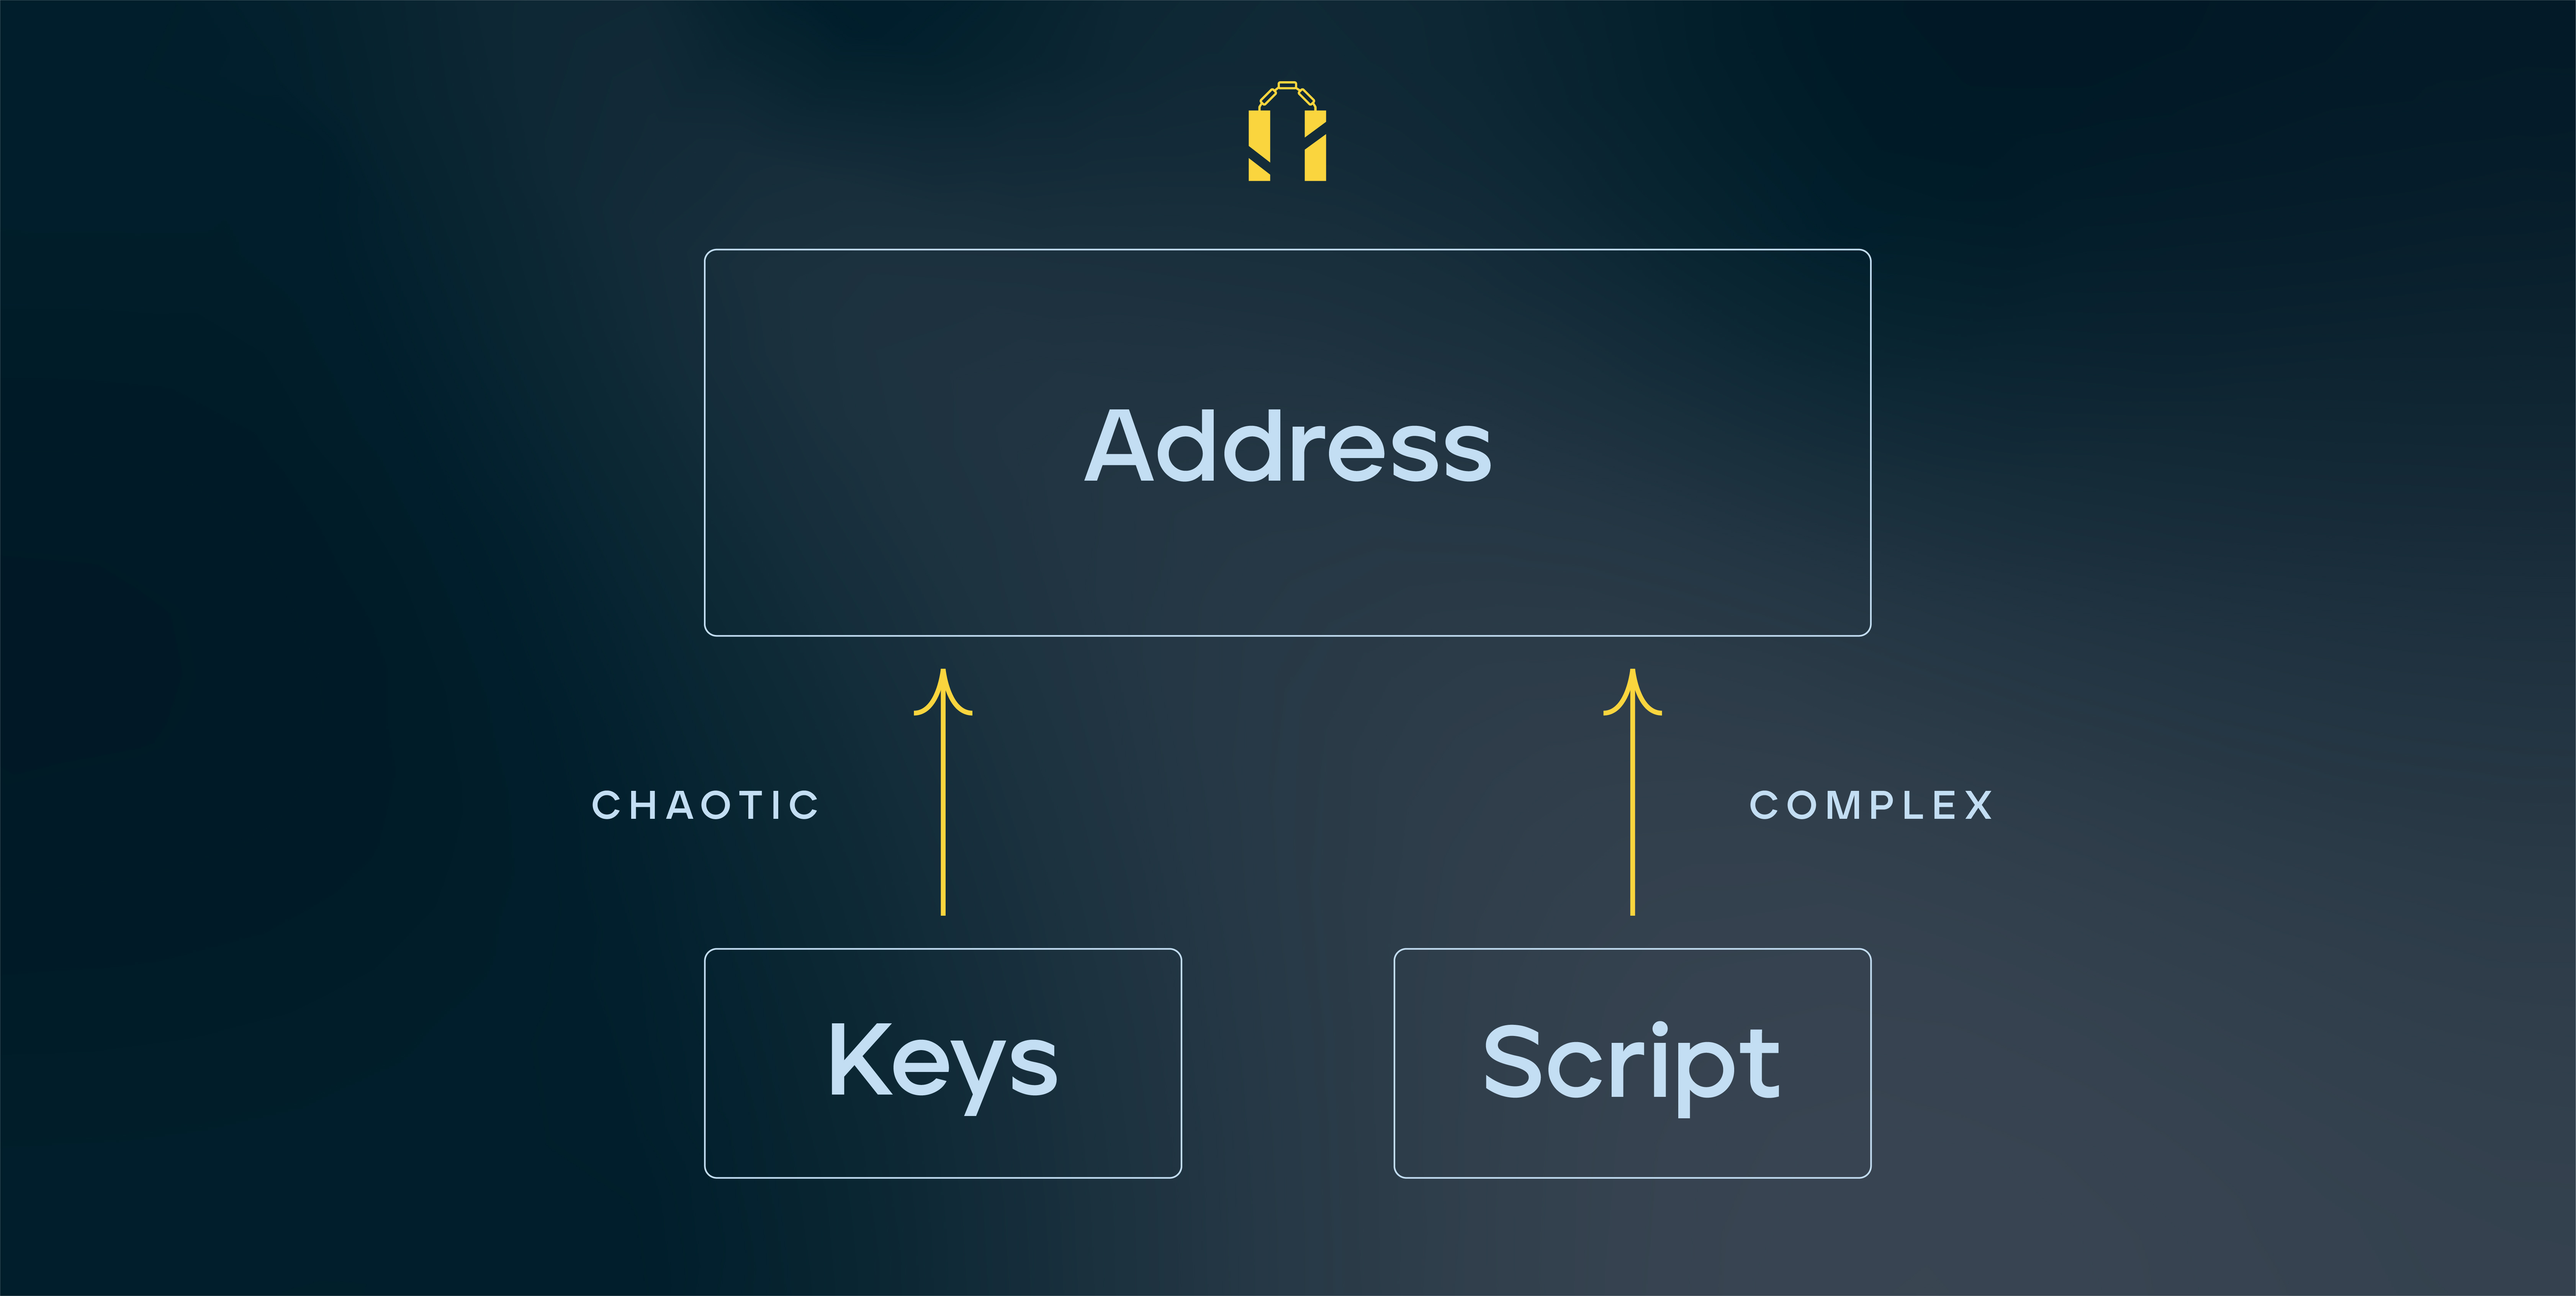
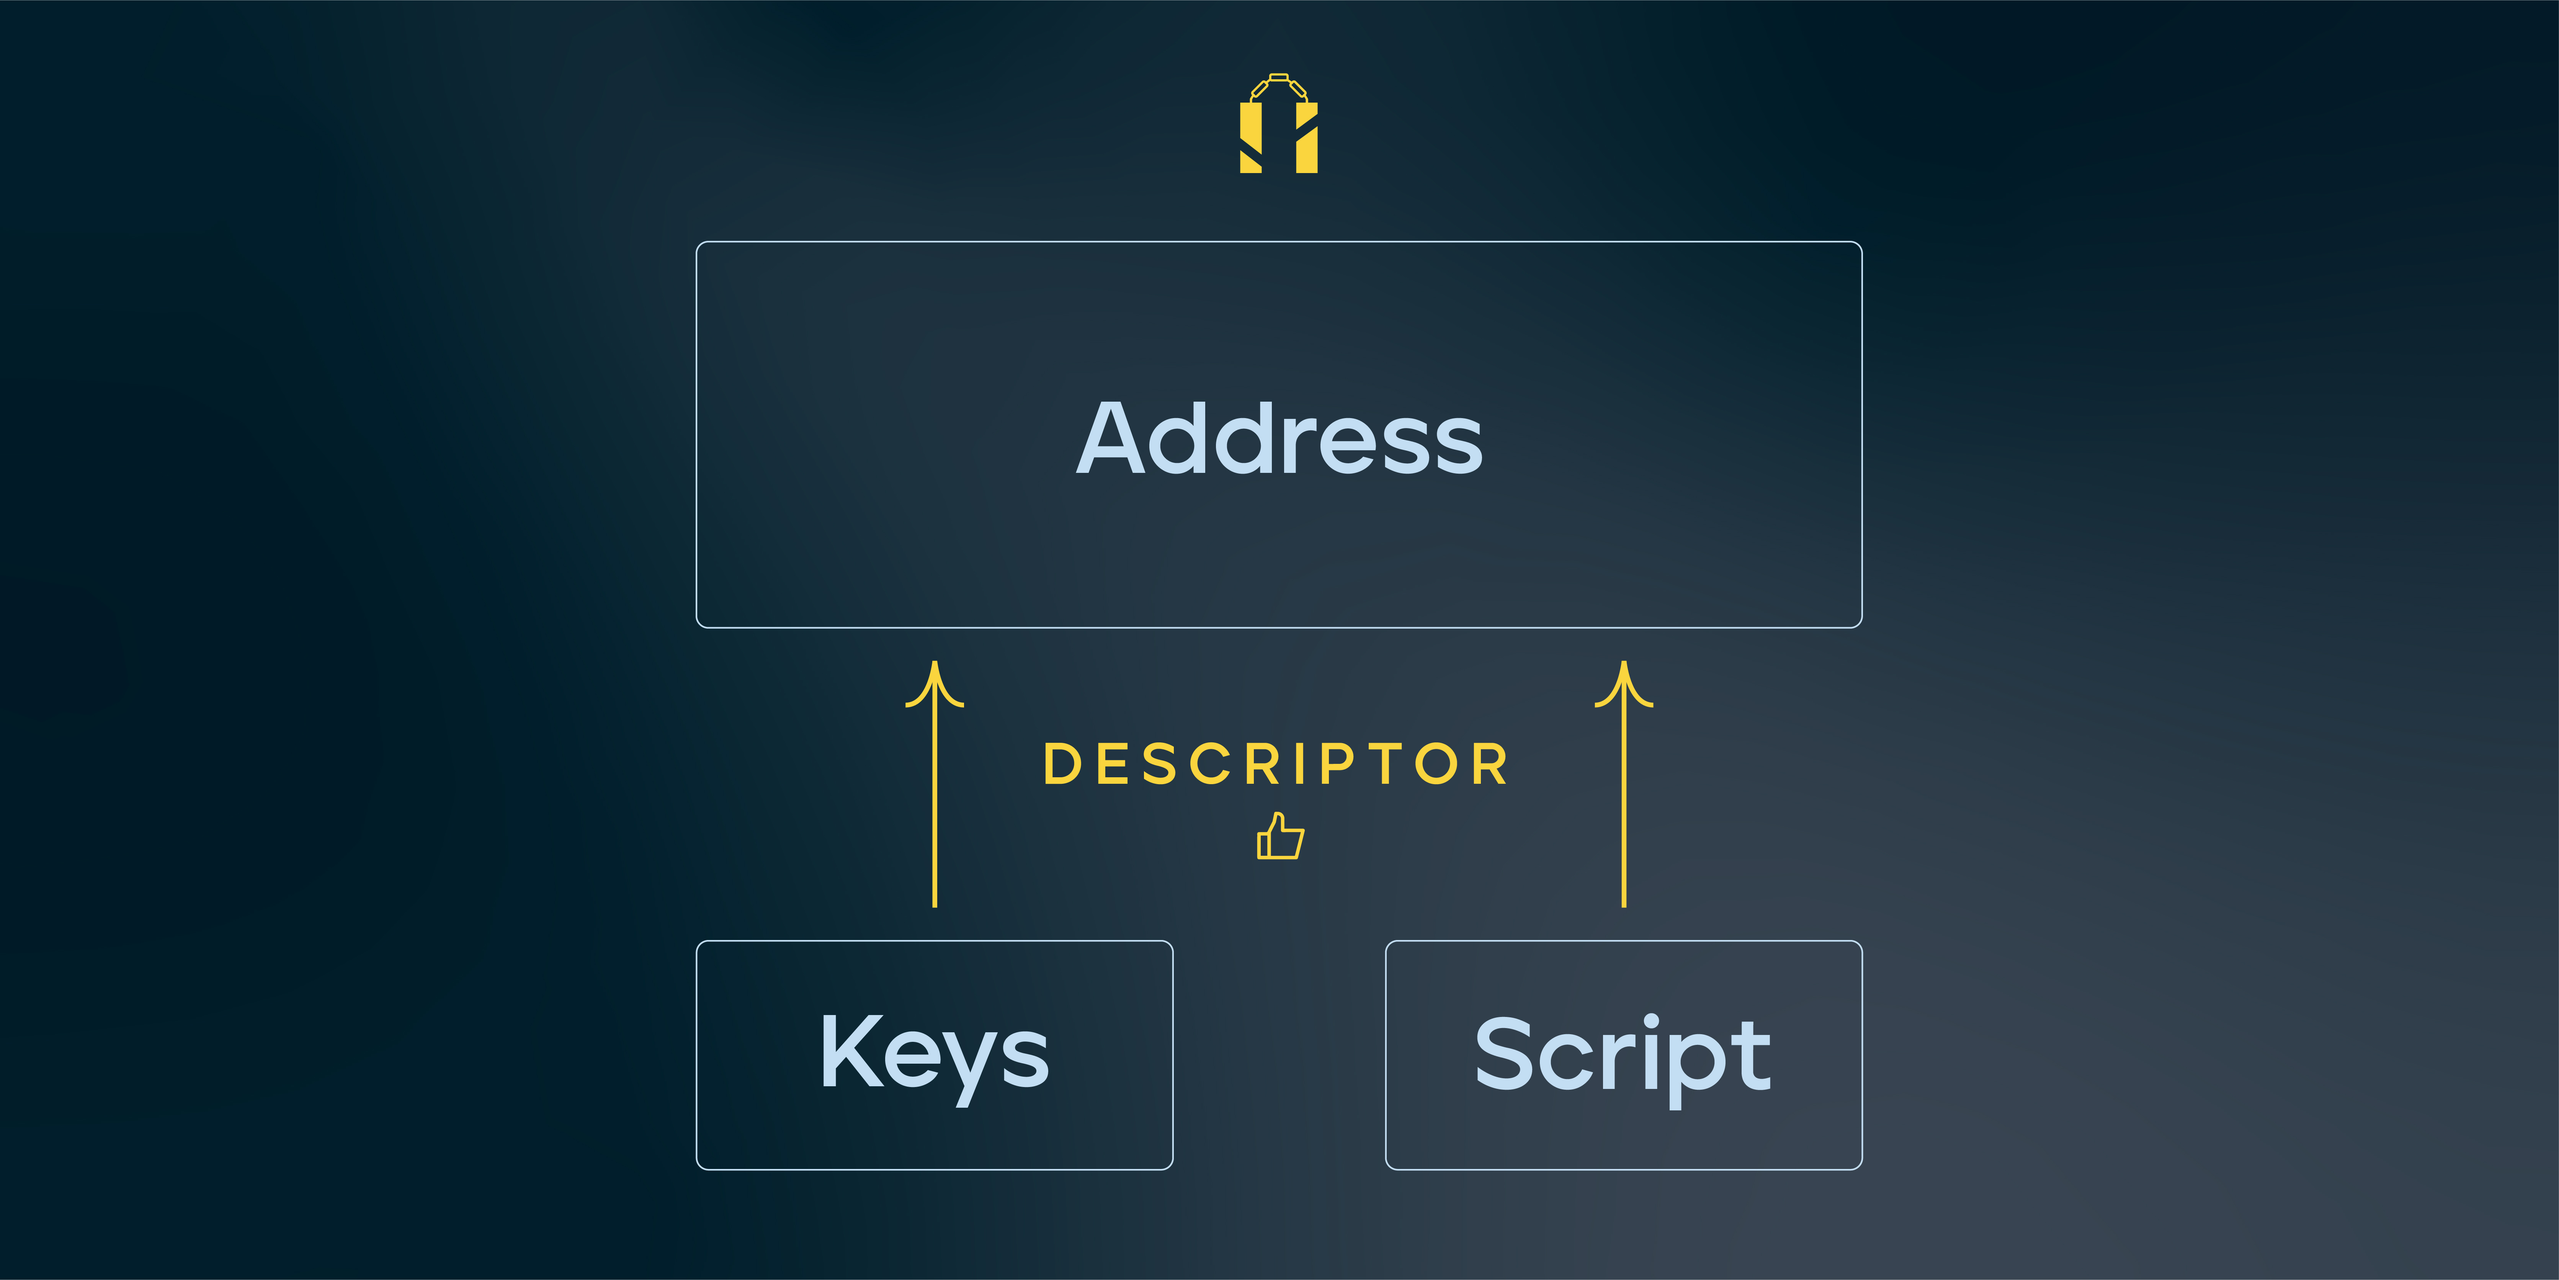
update text content

diff --git a/keys-are-not-enough.md b/keys-are-not-enough.md
@@ -1,8 +1,8 @@
 <h1>"Not Your Keys, Not Your Coins"... Is Not Enough</h1>
 
-This slogan (perhaps coined by Bitcoin evangelist Andreas Antonopoulos) has been popular among the Bitcoin community for a long time. "Keys" here refer to the private keys, implying that those who are in possession of the private keys, own the bitcoins controlled by those keys.
+This slogan (perhaps coined by Bitcoin evangelist Andreas Antonopoulos) has been popular among the Bitcoin community for a long time. "Keys" here refer to the private keys, implying that those who are in possession of the private keys own the bitcoins controlled by those keys.
 
-While this slogan was true in the early days of Bitcoin, it is becoming increasingly irrelevant. The reason is the growing sophistication of smart contracts, including, but not limited to, multisig.
+While this slogan was true in the early days of Bitcoin, it is becoming increasingly irrelevant. The reason is the growing sophistication of key generation and smart contracts, including, but not limited to, multisig.
 
 Since Nunchuk's mission is the proliferation of multisig, it is crucial that the first step is to clear up this misconception. The rest of this article explains why the above slogan no longer suffices.
 
@@ -12,25 +12,25 @@ Bitcoin addresses are constructed using 2 components: a data component, and a sc
 
 ![Early days of Bitcoin: P2PK and P2PKH](keys_are_not_enough_01.jpg "Early days of Bitcoin: P2PK and P2PKH")
 
-In the early days of Bitcoin, both the data component and the script component were incredibly simple. The data is usually one single public key in uncompressed form. The script component is similarly straightforward. It either involves a single operation, OP_CHECKSIG (P2PK), or a slightly longer list of operations (P2PKH), but still highly predictable. In those days, the addresses act ultimately as aliases for the public keys.
+In the early days of Bitcoin, both the data component and the script component were incredibly simple. The data was usually one single public key in uncompressed form. The script component was similarly straightforward. It either involved a single operation, OP_CHECKSIG (P2PK), or a slightly longer list of operations (P2PKH), but still highly predictable. In those days, the addresses acted ultimately as aliases for the public keys.
 
-In this context, the aforementioned slogan makes sense. Whoever posseses the private keys, can deduce the public keys. And from the public keys, the addresses. So possession of the private keys means that:
-* You know which addresses your bitcoins are stored in, and 
-* How to unlock the bitcoins, once you know the addresses.
+In this context, the aforementioned slogan makes sense. Whoever posseses the private keys can deduce the public keys. And from the public keys, the addresses. So possession of the private keys means that:
+* We know which addresses our bitcoins are stored in, and 
+* How to unlock the bitcoins, once we know the addresses.
 
 <h2>BIP16/BIP32</h2>
 
 ![BIP16 (P2SH) and BIP32 (HD wallets)](keys_are_not_enough_02.jpg "BIP16 (P2SH) and BIP32 (HD wallets)")
 
-Things started to change with the introduction of more advanced scripting capabilities, beginning with [BIP16 (P2SH)](https://github.com/bitcoin/bips/blob/master/bip-0016.mediawiki). With P2SH, the script component can be almost anything. A good example is [Peter Todd's bounties](https://bitcointalk.org/index.php?topic=293382.0) for finding cryptographic hash collisions. But a more typical use case for P2SH invloves multisig wallets, where funds are controlled by more than one public key.
+Things started to change with the introduction of more advanced scripting capabilities, beginning with [BIP16 (P2SH)](https://github.com/bitcoin/bips/blob/master/bip-0016.mediawiki). With P2SH, the script component can be almost anything. A good example is [Peter Todd's bounties](https://bitcointalk.org/index.php?topic=293382.0) for finding cryptographic hash collisions. But a more typical use case for P2SH involves multisig wallets, where funds are controlled by more than one public key.
 
-P2SH-enabled multisig means that addresses are no longer predictable, because the order of the public keys included matters. For example, a 2-of-3 P2SH multisig address could be built 6 different ways, depending on how you order the 3 public keys. If you don't back up the redeemScript, which contains this order, you might not even know which addresses belong to you! All is not lost, since you can "try out" all permutations. But this brute-force approach is costly and non-scalable, as we shall see later on.
+P2SH-enabled multisig means that addresses are no longer predictable, because the order of the public keys included matters. For example, a 2-of-3 P2SH multisig address could be built 6 different ways, depending on how we order the 3 public keys. If we don't back up the redeemScript, which contains this order, we might not even know which addresses belong to us! All is not lost, since we can "try out" all permutations. But this brute-force approach is costly and non-scalable, as we shall see later on.
 
-Another development occured on the key component side of the address. Some time after P2SH was created, Hierarchical Deterministic (HD) wallets arrived, later standardized in [BIP32](https://github.com/bitcoin/bips/blob/master/bip-0032.mediawiki). Prior to HD wallets, a wallet is simply a collection of random private keys. HD wallets create a key hierarchy, so that the private keys belong to the same family, all generated from the same root, called the master key.
+Another development occured on the key component side of the address. Some time after P2SH was created, Hierarchical Deterministic (HD) wallets arrived, later standardized in [BIP32](https://github.com/bitcoin/bips/blob/master/bip-0032.mediawiki). Prior to HD wallets, a wallet is simply a collection of random private keys. HD wallets create a key hierarchy so that the private keys belong to the same family, all generated from the same root called the master key.
 
-HD wallets also make addresses less predictable. For each address in a HD wallet, you need to know from which lineage that particular public key descended from the master key. This is called the BIP32 derivation path. Without knowing the derivation path, you would also not be able to tell which addresses on the blockchain belongs to you.
+HD wallets also made addresses less predictable. For each address in a HD wallet, we need to know from which lineage that particular public key descended from the master key. This is called the BIP32 derivation path. Without knowing the derivation path, we would also not be able to tell which addresses on the blockchain belong to us.
 
-To sum up: the introduction of BIP16 and BIP32 meant that possession of the private keys no longer suffices. You also need the redeemScript (for BIP16) and the derivation path (for BIP32).
+To sum up: the introduction of BIP16 and BIP32 meant that possession of the private keys no longer suffices. We also need the redeemScript (for BIP16) and the derivation path (for BIP32).
 
 <h2>SegWit and Taproot</h2>
 
@@ -40,7 +40,7 @@ Things became even more complicated with the activation of [Segregated Witness](
 
 SegWit introduced a new and improved address format, called Bech32.
 
-The problem is that now there are even more ways addresses can be generated from a single master key. For each address type (there are now 3: legacy, native segwit, and a hybrid called nested segwit), you face the same problems of BIP16 and BIP32. So you have *permutations upon permutations* of address possibilities!
+The problem is that now there are even more ways addresses can be generated from a single master key. For each address type (there are now 3: legacy, native segwit, and a hybrid called nested segwit), we face the same problems of BIP16 and BIP32. So we end up with *permutations upon permutations* of address possibilities!
 
 Levels of permutations:
 1. Address types
@@ -48,21 +48,21 @@ Levels of permutations:
 3. Derivation paths
 4. Order of keys, if multisig
 
-This is where we are today. Both the key component and the script component of the address have gotten highly complex that possession of private keys makes up only a small part of ownership.
+This is where we are today. Both the key component and the script component of the address have gotten highly complex that possession of the private keys makes up only a small part of ownership.
 
-During this period, wallet vendors coped with this complexity through their own ways, often ad-hoc and non-standard, which led to unfortunate consequences. First, wallets became less compatible with one another. As an example, to recover a wallet created with one vendor in another requires looking up magic "recovery paths". Another negative side effect is the invention of poor concepts such as YPUB/ZPUB that further complicate the process and confuse the user. We will discuss YPUB/ZPUB and why they should be avoided separately in another article.
+During this period, wallet vendors coped with this rising complexity through their own ad-hoc, propietary ways, which led to unfortunate consequences. First, wallets became less compatible with one another. As an example, to recover a wallet created with one vendor in another requires looking up magic "recovery paths". Another negative side effect is the invention of poor concepts such as YPUB/ZPUB that further complicate the process and confuse the user. We will discuss YPUB/ZPUB and why they should be avoided separately in another article.
 
 But it doesn't stop here. Soon Bitcoin will have even more advanced scripting capabilities, such as [Taproot](https://github.com/bitcoin/bips/blob/master/bip-0341.mediawiki). When that happens, the number of address permutations increases even further.
 
-![Soon: Taproot and more](keys_are_not_enough_04.jpg "Soon: Taproot and more")
-
 <h2>Solution: Descriptor Language</h2>
+
+![Output Descriptors](keys_are_not_enough_04.jpg "Output Descriptors")
 
 Perhaps realizing the urgency of this problem, Core developer Pieter Wuille set out to solve it. Pieter realized what we ultimately lacked was a higher-level language to tame this monstrous complexity. His solution, the [Output Descriptor language](https://github.com/bitcoin/bitcoin/blob/master/doc/descriptors.md) (descriptor for short), elegantly solves this problem.
 
 The purpose of the descriptor language is to express precisely how keys are derived and how they are used in creating  addresses.
 
-With descriptors, the user only needs to back up 2 things for their wallet: the master keys (or [BIP39](https://github.com/bitcoin/bips/blob/master/bip-0039.mediawiki) seeds), and the descriptors. There would no longer be any ambiguity, either in knowing which addresses on the blockchain belong to you, or how to recover the wallet using third-party tools.
+With descriptors, the user only needs to back up 2 things for their wallet: the master keys (or [BIP39](https://github.com/bitcoin/bips/blob/master/bip-0039.mediawiki) seeds), and the descriptors. There would no longer be any ambiguity, either in knowing which addresses on the blockchain belong to us, or how to recover the wallet using third-party tools.
 
 In the future, it is crucial that all Bitcoin wallets move to a descriptor-first architecture.
 
@@ -72,5 +72,5 @@ The days of "not your keys, not your coins" are over. Perhaps it is more fitting
 
 ===
 
-*Nunchuk (Engineering) Journal is a collection of articles that discuss all things technical in Bitcoin. The journal documents our thought processes in the creation of Nunchuk, how things impact the user, and observations about the industry at large. You can download the Nunchuk wallet by visiting our website at https://nunchuk.io*
+*Nunchuk (Engineering) Journal is a collection of articles that discuss all things technical in Bitcoin. The journal documents our thought processes in the creation of Nunchuk, how things impact the user, and observations about the industry at large. You can download the Nunchuk wallet by visiting our website at https://nunchuk.io .*
 
